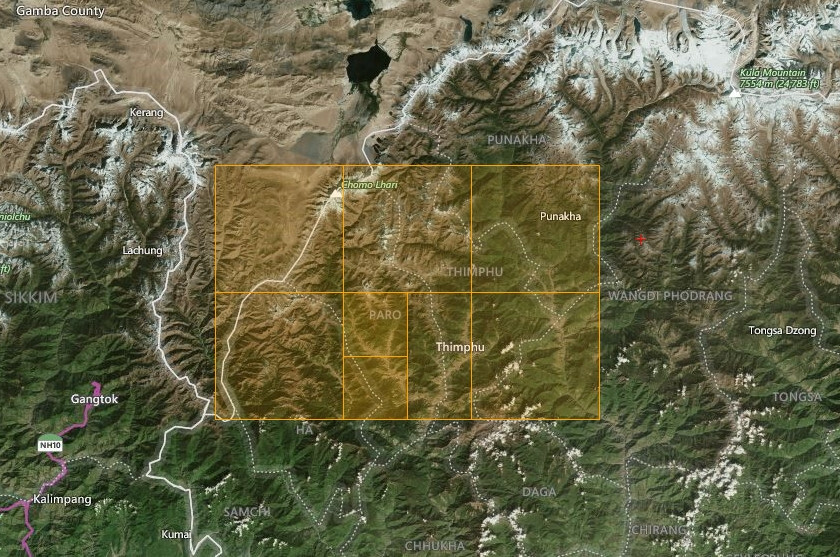
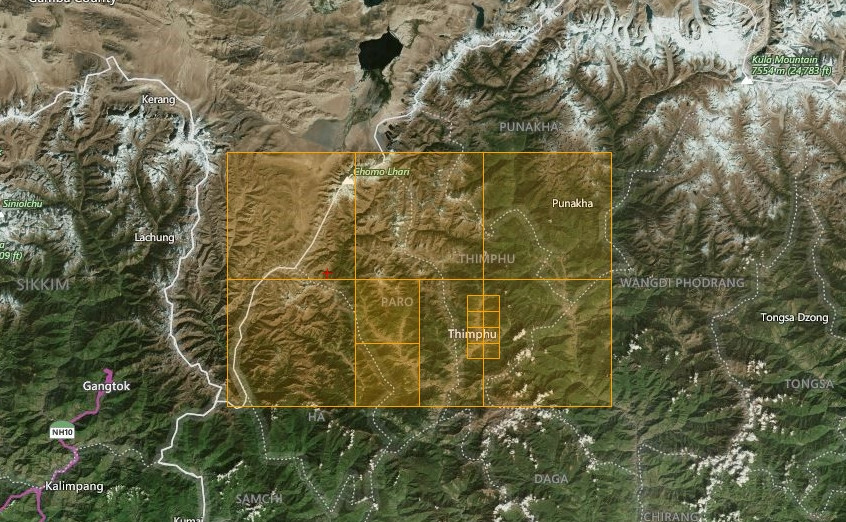
Updating content

diff --git a/scenery/bt_paro.md b/scenery/bt_paro.md
@@ -11,7 +11,11 @@ src="../assets/images/scenery/bt_paro/hero.jpg">
 
 ## Description
 
-... (work in progress)
+HD scenery covering Paro airport area as well as Bhutan’s capital, Thimphu, and extending northwards into the Himalayas mountains.
+
+Two POIs have been added; the Buddha Dordenma located in Thimphu, in particular, is a must-see. 
+
+There is a helipad at the foot of this famous landmark, as well as updated elevation data for Paro airport and the POIs in Thimphu.
 
 <div class="tag-container">
 
@@ -19,6 +23,8 @@ src="../assets/images/scenery/bt_paro/hero.jpg">
 <span class="tag">FSG Mobile</span>
 
 <span class="tag">Photo Scenery</span>
+<span class="tag">Airports</span>
+<span class="tag">POI's</span>
 <span class="tag">Elevation</span>
 
 <span class="tag">v1.0</span>
@@ -98,11 +104,11 @@ src="../assets/images/scenery/bt_paro/hero.jpg">
 <div class="download-panel">
 
 <a class="download-button" href="https://drive.google.com/file/d/1qiOjhh1ocbkYs-36U20voRowmVnvPLlv/view?usp=drive_link">
-Download Images (626.9 MB)
+Download Images (670.9 MB)
 </a>
 
 <a class="download-button" href="https://drive.google.com/file/d/1C-lvxrT4K3LauUrwpYpO8E2ROJvXIsyl/view?usp=drive_link">
-Download Data FS4 (1.8 MB)
+Download Data FS4 (6.2 MB)
 </a>
 
 </div>
@@ -113,12 +119,12 @@ Download Data FS4 (1.8 MB)
 
 <div class="download-panel">
 
-<a class="download-button" href="">
-Download Images (#.# MB)
+<a class="download-button" href="https://drive.google.com/file/d/16ioVCo87T_DmjYRTGz1Okdlak-kF6Kxk/view?usp=drive_link">
+Download Images (384.0 MB)
 </a>
 
-<a class="download-button" href="">
-Download Data FSG (#.# MB)
+<a class="download-button" href="https://drive.google.com/file/d/1svrdoEXS84zSEYDv3z_F1VDUSus7JjrZ/view?usp=drive_link">
+Download Data FSG (6.0 MB)
 </a>
 
 </div>

diff --git a/countries/bt.md b/countries/bt.md
@@ -19,6 +19,8 @@ title: Bhutan
 <span class="tag">FSG Mobile</span>
 
 <span class="tag">Photo Scenery</span>
+<span class="tag">Airports</span>
+<span class="tag">POI's</span>
 <span class="tag">Elevation</span>
 
 <span class="tag">v1.0</span>
